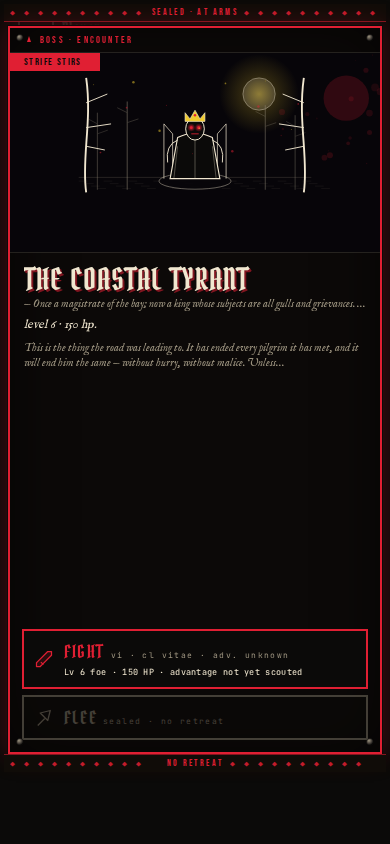
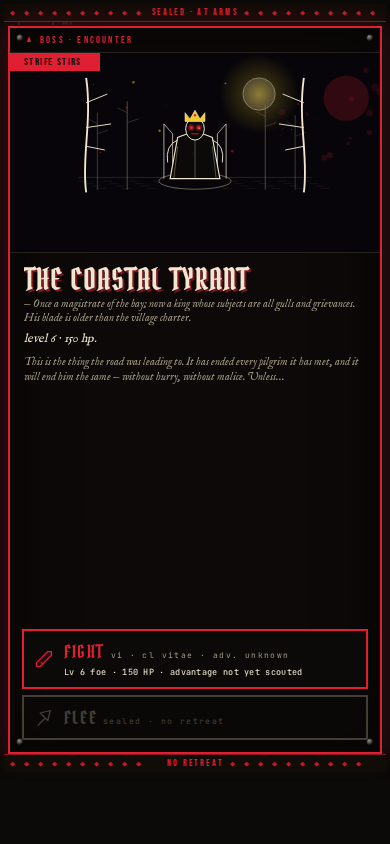
polish: critic round — rest centering + boss subtitle wrap
Drains the in-scope LOW backlog the prior critic break logged.

- rest: the Night Watch left the bottom ~40% empty black with the
  option stack top-jammed. Same centring treatment as cache/dialogue
  (ScreenBg scrollable={false} + flex:1 ScrollView, flexGrow/justify
  center on the content container); also retires the nested-scroll.
- encounter/boss prelude subtitle: numberOfLines={1} hard-clipped long
  boss subtitles at the right padding edge ("...gulls and grievances…."
  on THE COASTAL TYRANT). Allow 2 lines — long boss subtitles wrap into
  the ample void below; short encounter subtitles ("— something stirs")
  stay one line. No regression on combat-prelude.

tsc clean; jest 1969/1969 green.

Changed region(s): [[0.0615, 0.3697, 0.9231, 0.4621]]

diff --git a/app/rest/index.tsx b/app/rest/index.tsx
@@ -54,8 +54,8 @@ export default function RestScreen() {
     const warmthPips = Array.from({ length: vm.warmthMax }, (_, i) => i < vm.warmth);
 
     return (
-        <ScreenBg>
-            <ScrollView contentContainerStyle={styles.scroll}>
+        <ScreenBg scrollable={false}>
+            <ScrollView style={styles.scrollOuter} contentContainerStyle={styles.scroll}>
                 <Text style={styles.eyebrow}>THE NIGHT WATCH</Text>
                 <Text style={styles.title}>A CAMP, A FIRE, THE DARK</Text>
 
@@ -201,7 +201,11 @@ export default function RestScreen() {
 }
 
 const styles = StyleSheet.create({
-    scroll: { padding: 14, paddingBottom: 24 },
+    scrollOuter: { flex: 1 },
+    // Centre the Night Watch in the viewport — the option stack left the
+    // bottom ~40% empty black (critic round, same treatment as cache /
+    // dialogue). Taller states still scroll.
+    scroll: { padding: 14, paddingBottom: 24, flexGrow: 1, justifyContent: 'center' },
     eyebrow: {
         fontFamily: FONTS.sans,
         fontSize: 12,

diff --git a/components/event/EncounterPreludeContent.tsx b/components/event/EncounterPreludeContent.tsx
@@ -68,7 +68,7 @@ export function EncounterPreludeContent({
                     {vm.title}
                 </Text>
                 {vm.subtitle.length > 0 && (
-                    <Text style={styles.subtitle} numberOfLines={1}>— {vm.subtitle}</Text>
+                    <Text style={styles.subtitle} numberOfLines={2}>— {vm.subtitle}</Text>
                 )}
             </View>
 
